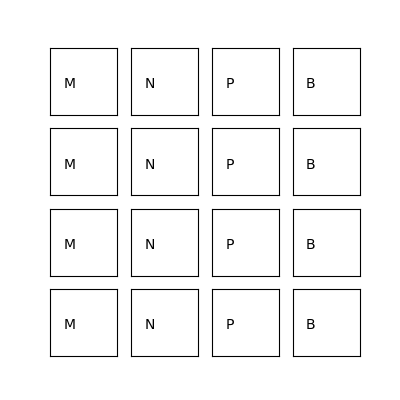
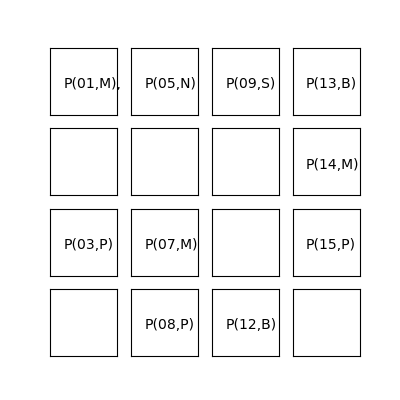
Orden de las columnas

diff --git a/Entrega3.py b/Entrega3.py
@@ -1,19 +1,40 @@
+#-*-coding: utf-8-*-
 import matplotlib.pyplot as plt
 from pylab import *
 import numpy as np
 import math as mt
-diccionario = {'M':1, 'M':1, 'M':1 , 'N':1 ,  'M':1 ,'M':1 , 'M':1 , 'N':1, 'M':1 , 'M':1 , 'M':1 , 'N':1 , 'P':1 , 'P':1 , 'P':1 , 'B':1}
+#Creación diccionario
+diccionario = {'P(01,M),':1, 'P(02,M)':0, 'P(03,P)':1 , 'P(04,P)':0 ,'P(05,N)':1 ,'P(06,N)':0 , 'P(07,M)':1 , 'P(08,P)':1, 'P(09,S)':1 , 'P(10,M)':0 , 'P(11,S)':0 , 'P(12,B)':1 , 'P(13,B)':1 , 'P(14,M)':1 , 'P(15,P)':1 , 'P(16,M)':0}
+#Aqui se accede a los valores del diccionario
 valores = diccionario.values()
+#Aqui se accede a las llaves del diccionario
 letras = diccionario.keys()
 letras.sort()
+#Se pasa letras de lista a matriz y además se tranpone para que asi quede el orden que queremos para el proyecto
+w = 4
+c = [[0 for x in range(w)] for y in range(w)]
+for i in range(0,4):
+    for j in range(0,4):
+        c[i][j] = letras[i*(4)+j] 
+c2 = np.array(c)
+tras = c2.transpose()
+#Creamos el primer terreno de 4x4, este terreno esta vacio. Además se guarda la imagen
 fig = plt.figure(figsize=(4,4))
 for i in range(1,17):
     ax = fig.add_subplot(4, 4, i, xticklabels=[], yticklabels=[], xticks=[], yticks=[])  
 plt.savefig("Terreno_vacio.png")
 plt.show()
+#Se crea el terreno de 4x4 con las modificaciones de que segun el valor sea 1 o 0 cada componente tendra o no un elemento
 fig2 = plt.figure(figsize=(4,4))
-for i in range(1,17):
-    ax = fig2.add_subplot(4, 4,i, xticklabels=[], yticklabels=[], xticks=[], yticks=[])  
-    plt.text(0.2, 0.4,letras[i%4])
+k = 1
+for i in range(1,5):
+    for j in range(1,5):
+        if diccionario.get(tras[i-1][j-1])==1:
+            ax = fig2.add_subplot(4, 4,k, xticklabels=[], yticklabels=[], xticks=[], yticks=[])  
+            plt.text(0.2, 0.4,tras[i-1][j-1])
+        elif diccionario.get(tras[i-1][j-1]) == 0:
+            ax = fig2.add_subplot(4, 4,k, xticklabels=[], yticklabels=[], xticks=[], yticks=[])  
+            plt.text(0.2, 0.4,' ')
+        k += 1
 plt.savefig("Terreno_Con_Letras.png")
 plt.show()
